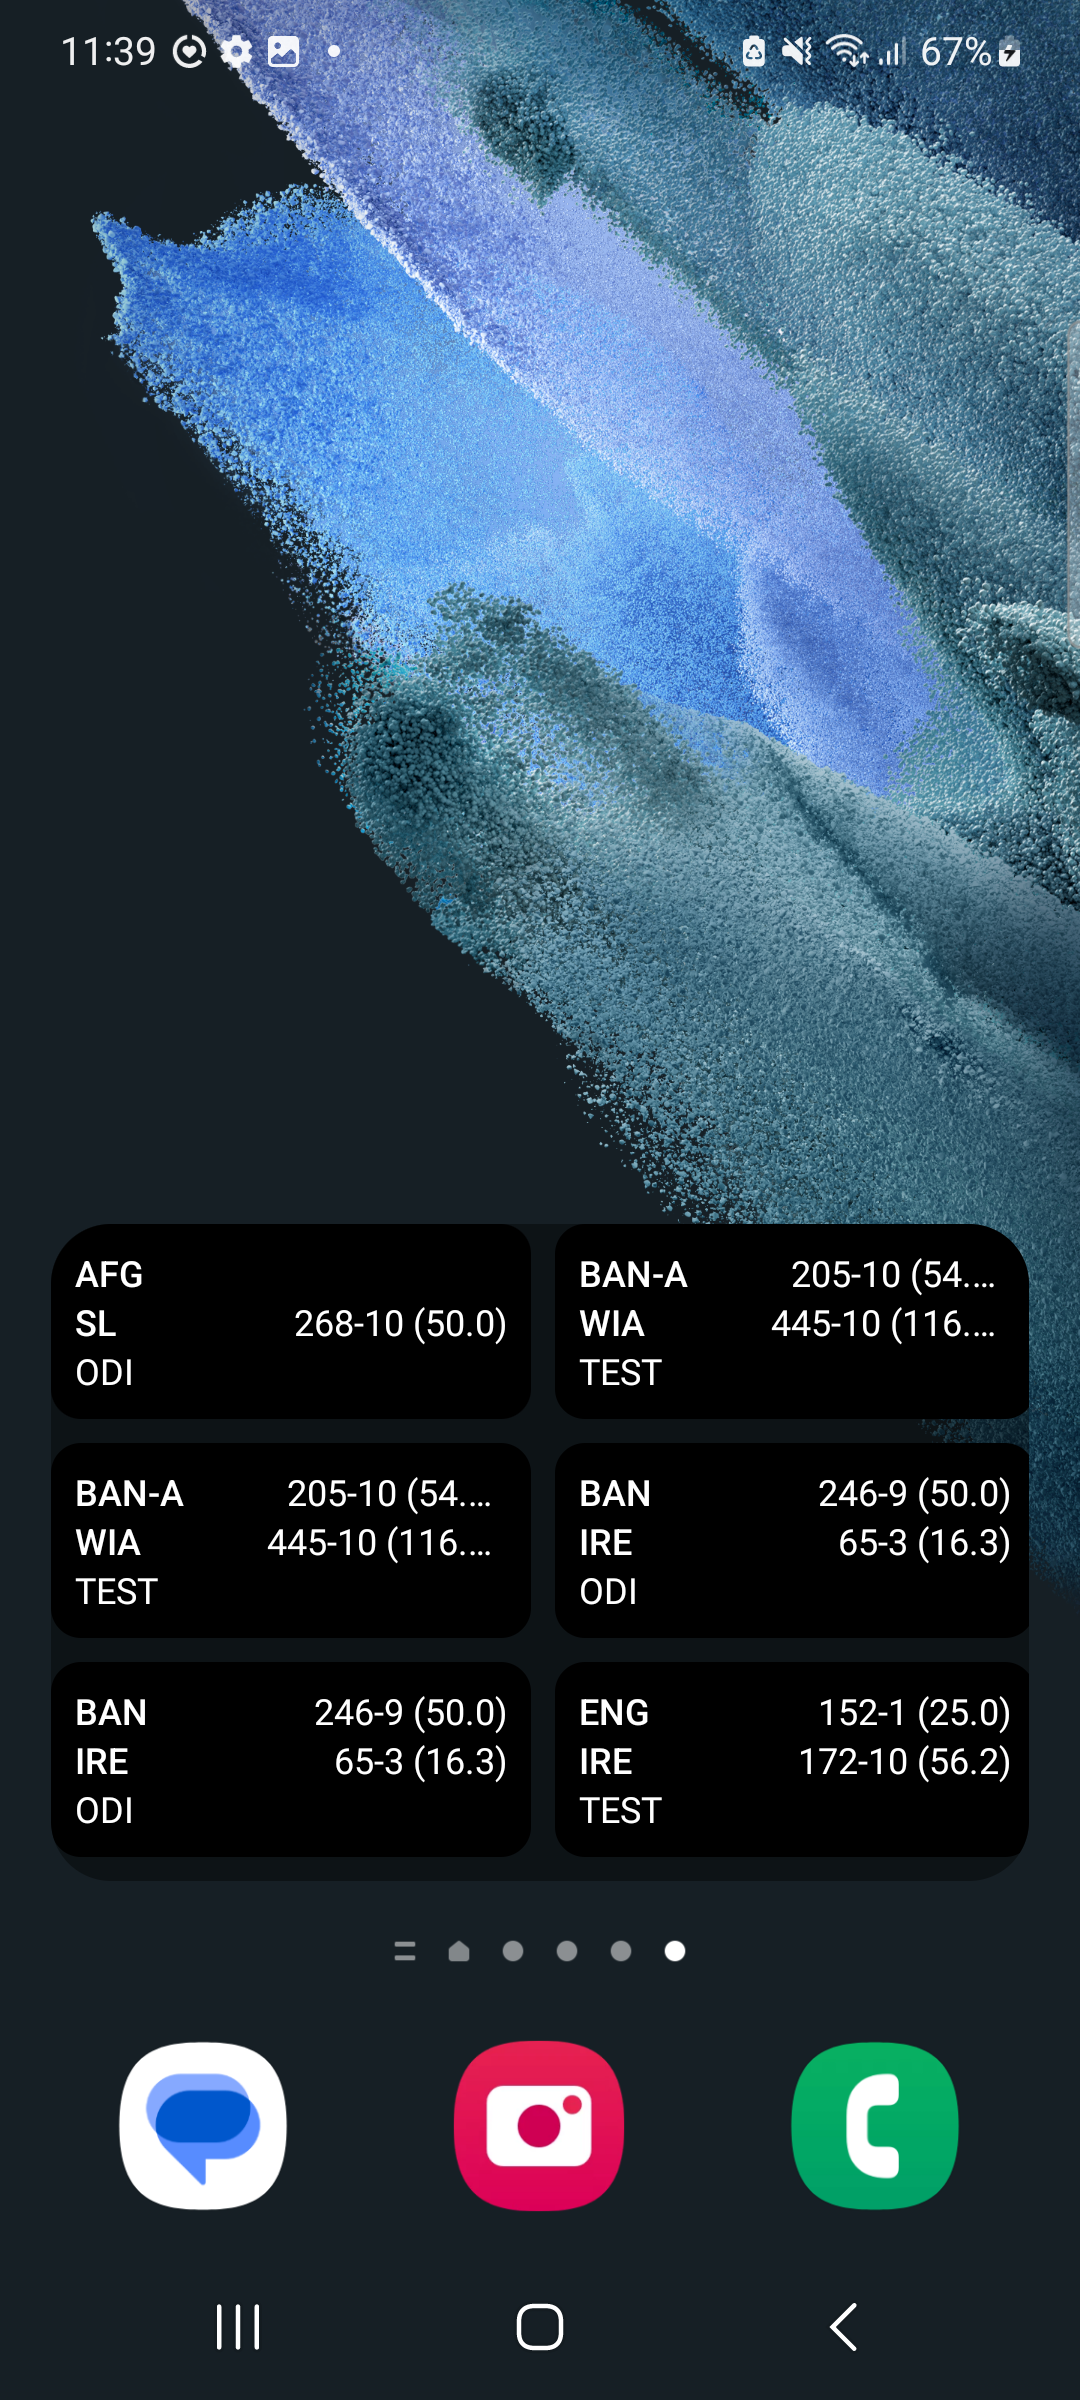
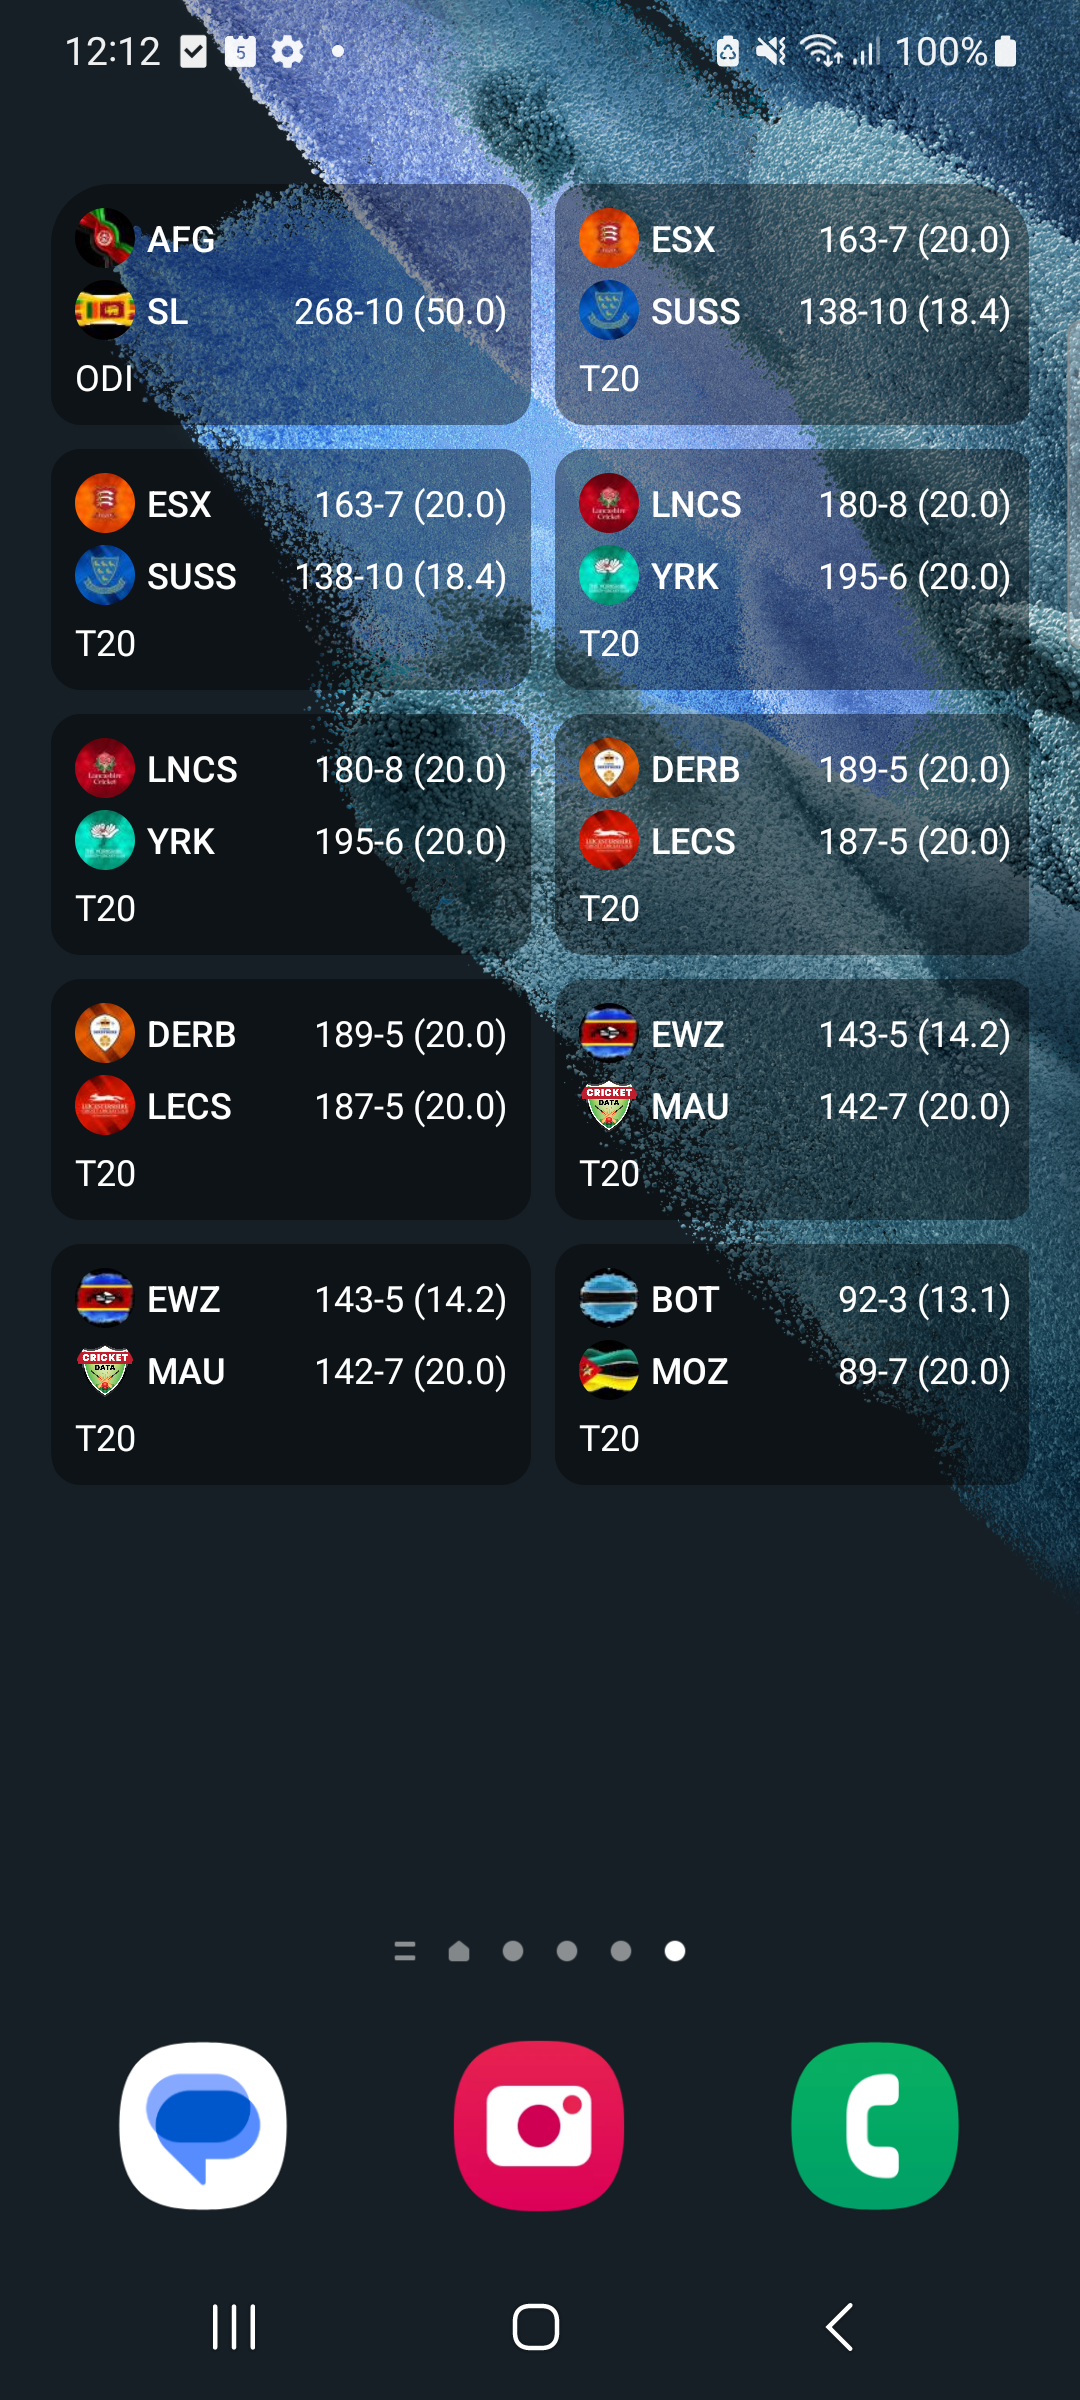
matches widget improved

diff --git a/app/src/main/java/com/app/compose/cricket/ui/widget/match/SelectedMatchWidget.kt b/app/src/main/java/com/app/compose/cricket/ui/widget/match/SelectedMatchWidget.kt
@@ -48,9 +48,7 @@ object SelectedMatchWidget : GlanceAppWidget() {
     ) {
         provideContent {
             val cricketMatch = currentState<CurrentMatch?>()
-            Content(
-                cricketMatch = (cricketMatch?.data ?: listOf()).filter { !it.matchEnded }
-            )
+            Content(cricketMatch = cricketMatch?.data ?: listOf())
         }
     }
 
